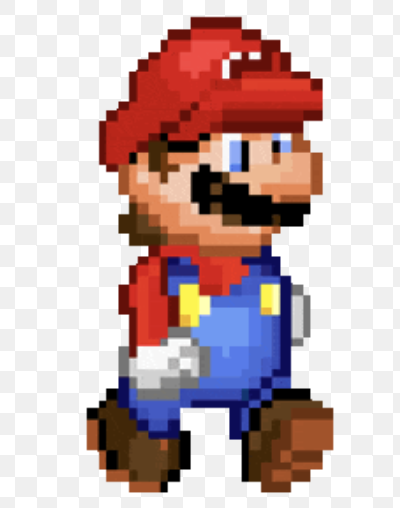
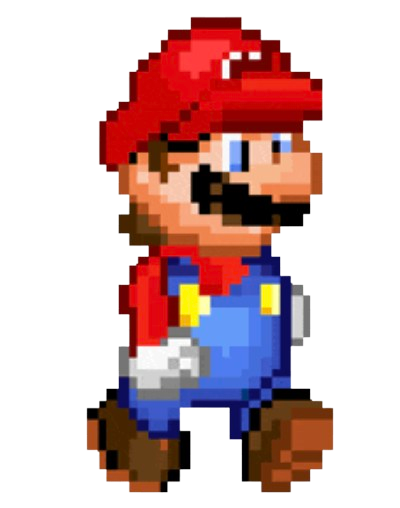
bg & mario animation & speechbubble added

diff --git a/src/App.css b/src/App.css
@@ -61,16 +61,118 @@ header {
   animation: walkAnimation 4s steps(4) forwards; /* Adjust time and steps as needed */
 }
 
-@keyframes walkAnimation {
+
+/* mario character animation */
+@keyframes marioFloat { 
   0% {
-    left: 0;
-    background-position: 0; /* Start position of sprite frames */
+    transform: translateX(-55vw); /* Start off-screen */
+    opacity: 1;
+  }
+  10% {
+    transform: translateX(-20vw); /* move towards the right and stop */
+    opacity: 1;
+  }
+
+  45% {
+    transform: translateX(-20vw); /* move towards the right and stop */
+    opacity: 1;
+  }
+  50% {
+    transform: translateX(-20vw) translateY(-25vh); /* move upwards */
+    opacity: 1;
+  }
+  55% {
+    transform: translateX(-8vw) translateY(-35vh); /* move slight right up diagonal */
+    opacity: 1;
+  }
+  60% {
+    transform: translateX(-1vw) translateY(-30vh); /* move very slight down right diagonal, land on block */
+    opacity: 1;
+  }
+  65% {
+    transform: translateX(-1vw) translateY(-50vh); /* move upwards */
+    opacity: 1;
+  }
+
+  70% {
+    transform: translateX(8vw) translateY(-60vh); /* move diagonally towards cloud */
+    opacity: 1;
+  }
+  75% {
+    transform: translateX(18vw) translateY(-57vh); /* land on cloud */
+    opacity: 1;
+  }
+  80% {
+    transform: translateX(30vw) translateY(-57vh); /* go right for jump */
+    opacity: 1;
+  }
+  90% {
+    transform: translateX(30vw) translateY(-34vh); /* go down */
+    opacity: 1;
   }
   100% {
-    left: calc(100% - 50px); /* Move to the end of the container, adjust 50px to the width of your character */
-    background-position: -200px 0; /* End position of sprite frames, adjust -200px to your sprite sheet's width minus one frame */
+    transform: translateX(55vw) translateY(-34vh); /* exit screen */
+    opacity: 1;
   }
 }
+
+  
+/* -Y means move Up, Y means move Down,  -X means move to R , X means move to L */
+
+.mario {
+  position: absolute;
+  width: auto;
+  height: 300px;
+  bottom: 180px; /* Adjust as needed */
+  animation: marioFloat 30s ease-in-out forwards;
+}
+
+/* speech bubble animation */
+
+@keyframes speechbubble-fade { 
+  0% {
+    opacity: 0;
+  }
+  5% {
+    opacity: 0;
+  }
+
+  10% {
+    opacity: 1;
+  }
+  44% {
+    opacity: 1;
+  }
+
+  45% {
+    opacity: 0;
+  }
+  100% {
+    opacity: 0;
+  }
+}
+
+.speechbubble {
+  position: absolute;
+  width: 1050px;
+  height: 1250px;
+  bottom: 100px; 
+  animation: speechbubble-fade 30s forwards;
+}
+
+.title-text {
+  width: 1000px;      /* Adjust width as needed */
+  height: 350px;     /* Adjust height as needed */
+  position: absolute; /* Use 'absolute' or 'fixed' positioning */
+  top: 20%;          /* Adjust to position vertically */
+  left: 50%;        /* Adjust to position horizontally */
+  font-size: 60px;
+  transform: translate(-50%, -50%); /* Center the container */
+  background-color: white; /* Optional: Set a background color */     
+  text-align: center; /* Optional: Align text */
+  /* Add more styling as needed */
+}
+
 
 section {
   height: 100vh;
@@ -87,6 +189,9 @@ section {
   width: 100vw;
   max-width: 100vw;
   background-color: rgb(243, 202, 249);
+  background-image: url('src/Elements/classic-world-video-game-background-free-vector.jpg');
+  background-size: cover; /* Cover ensures that the background covers the entire slide */
+  background-position: center; 
 }
 
 .content {

diff --git a/src/Pages/Home.jsx b/src/Pages/Home.jsx
@@ -4,6 +4,7 @@ import {
 } from "react-locomotive-scroll";
 import React, { useRef, useCallback, useContext } from "react";
 import "../App.css";
+import backgroundImg from "../Elements/classic-world-video-game-background-free-vector.jpg";
 
 function App() {
   const containerRef = useRef(null);
@@ -34,12 +35,29 @@ function App() {
   return (
     <LocomotiveScrollProvider containerRef={containerRef} watch={[]}>
       <main data-scroll-container ref={containerRef}>
-        <section className="container" id="first-slide" data-scroll-section>
+        <section
+          className="container"
+          style={{
+            backgroundImage: `url(${backgroundImg})`,
+            backgroundSize: "cover",
+            backgroundPosition: "center",
+          }}
+          id="first-slide"
+          data-scroll-section
+        >
+          <img src="src/Elements/mario.png" alt="Mario" className="mario" />
+          <img
+            src="src/Elements/speechbubble1.png"
+            alt="textbox"
+            className="speechbubble"
+          />
+          {/* <div className="title-text">
+            <p> Let's Play Pixel Pulse! </p>
+          </div> */}
+
           <button onClick={() => scrollToSection("#second-slide")}>
             Go to Second Slide
           </button>
-
-          <h1>Madhumitha and Apoorva present</h1>
         </section>
 
         <section className="content" id="second-slide" data-scroll-section>

diff --git a/src/App.jsx b/src/App.jsx
@@ -1,15 +1,20 @@
 import React, { useState, useEffect } from "react";
 import * as d3 from "d3";
 import "./App.css";
-import Sankey from "./Components/Sankey";
-import BarChart from "./Components/Barchart";
+//import Sankey from "./Components/Sankey";
+// import BarChart from "./Components/Barchart";
 import Home from "./Pages/Home";
+// import HeatMap from "./Components/heatmap";
+// import TreeMap from "./Components/Treemap";
 
 function App() {
   return (
     <>
       {/* <Sankey /> */}
+      {/* <TreeMap /> */}
       {/* <BarChart /> */}
+      {/* HeatMap/> */}
+
       <Home />
     </>
   );
